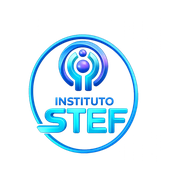
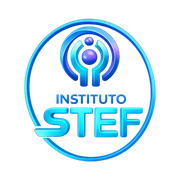
Fonte do topo, menu organizado, icone de instalacao corrigido

Changed region(s): [[0.1111, 0.0833, 0.8889, 0.9167]]

diff --git a/index.html b/index.html
@@ -11,10 +11,10 @@
 <link rel="apple-touch-icon" href="img/apple-touch-icon.png">
 <meta name="apple-mobile-web-app-capable" content="yes">
 <meta name="mobile-web-app-capable" content="yes">
-<meta name="apple-mobile-web-app-title" content="STEF">
+<meta name="apple-mobile-web-app-title" content="Instituto STEF">
 <link rel="preconnect" href="https://fonts.googleapis.com">
 <link rel="preconnect" href="https://fonts.gstatic.com" crossorigin>
-<link href="https://fonts.googleapis.com/css2?family=Inter:wght@400;500;600;700;800&family=Oswald:wght@500;600&display=swap" rel="stylesheet">
+<link href="https://fonts.googleapis.com/css2?family=Inter:wght@400;500;600;700;800&family=Exo+2:wght@600;700;800&display=swap" rel="stylesheet">
 <style>
 :root{--bg:#eef3fa;--card:#fff;--ink:#0b2a5b;--text:#27384f;--muted:#5d6f86;--blue:#1d5fc4;--blue2:#e3eeff;--line:#dbe5f1;--pill:#e4ebf5;--r:22px;--tabh:76px}
 *{box-sizing:border-box;-webkit-tap-highlight-color:transparent}
@@ -28,9 +28,10 @@ button{font:inherit;color:inherit;cursor:pointer}
 .top{position:sticky;top:0;z-index:30;display:flex;align-items:center;gap:10px;padding:calc(env(safe-area-inset-top) + 12px) 18px 10px;background:linear-gradient(var(--bg) 70%,transparent)}
 .brand{display:flex;align-items:center;gap:9px;margin-right:auto}
 .brand img{width:40px;height:40px}
-.brand b{font:600 19px Oswald,Inter,sans-serif;letter-spacing:.5px;color:var(--ink);text-transform:uppercase;line-height:1}
-.brand small{display:block;font:500 9.5px Inter;color:var(--blue);letter-spacing:1.2px;margin-top:3px}
-.pillbtn{display:flex;align-items:center;gap:8px;height:46px;padding:0 20px;border-radius:999px;background:#fff;border:1px solid var(--line);color:var(--blue);font-weight:700;font-size:17px;box-shadow:0 4px 14px rgba(11,42,91,.07)}
+.brand b{font:800 21px "Exo 2",Inter,sans-serif;letter-spacing:0;color:var(--blue);line-height:1}
+.brand b{white-space:nowrap}
+.brand small{display:none;font:600 10px Inter;color:var(--muted);letter-spacing:.2px;margin-top:4px}
+.pillbtn{display:flex;align-items:center;gap:6px;height:44px;padding:0 15px;border-radius:999px;background:#fff;border:1px solid var(--line);color:var(--blue);font-weight:700;font-size:16px;box-shadow:0 4px 14px rgba(11,42,91,.07)}
 .pillbtn svg{width:22px;height:22px}
 .round{width:46px;height:46px;border-radius:50%;display:grid;place-items:center;background:#fff;border:1px solid var(--line);box-shadow:0 4px 14px rgba(11,42,91,.07)}
 .round svg{width:22px;height:22px;color:var(--ink)}
@@ -41,11 +42,11 @@ button{font:inherit;color:inherit;cursor:pointer}
 @keyframes fade{from{opacity:0;transform:translateY(6px)}to{opacity:1;transform:none}}
 .pad{padding:0 18px}
 .row-h{display:flex;align-items:center;gap:12px;margin:30px 18px 14px}
-.row-h h2{margin:0;font-size:23px;font-weight:800;color:var(--ink);letter-spacing:-.3px}
-.chip{display:inline-flex;align-items:center;gap:4px;padding:7px 16px;border-radius:999px;background:var(--pill);font-weight:700;font-size:14px;letter-spacing:.4px;text-transform:uppercase;color:var(--muted)}
+.row-h h2{font-family:"Exo 2",Inter,sans-serif;margin:0;font-size:23px;font-weight:800;color:var(--ink);letter-spacing:-.3px}
+.chip{display:inline-flex;align-items:center;gap:4px;padding:7px 16px;border-radius:999px;background:var(--pill);font-weight:700;font-size:14px;letter-spacing:0;color:var(--muted)}
 .chip svg{width:14px;height:14px}
-.eyebrow{font:500 14px Oswald,Inter,sans-serif;letter-spacing:2px;text-transform:uppercase;color:var(--muted)}
-h1{font-size:30px;line-height:1.1;margin:6px 0 8px;color:var(--ink);letter-spacing:-.6px;font-weight:800}
+.eyebrow{font:700 14px "Exo 2",Inter,sans-serif;letter-spacing:.3px;color:var(--blue)}
+h1{font-family:"Exo 2",Inter,sans-serif;font-size:30px;line-height:1.1;margin:6px 0 8px;color:var(--ink);letter-spacing:-.6px;font-weight:800}
 h3{margin:0;font-size:18px;color:var(--ink);font-weight:700;line-height:1.25}
 p{margin:0 0 10px}
 .lead{color:var(--muted);font-size:15.5px}
@@ -71,19 +72,19 @@ p{margin:0 0 10px}
 .pcard img{position:absolute;inset:0;width:100%;height:100%;object-fit:cover}
 .pcard:after{content:"";position:absolute;inset:0;background:linear-gradient(transparent 30%,rgba(7,26,58,.92))}
 .pcard>*:not(img){position:relative;z-index:1}
-.pcard b{font:600 22px Oswald,Inter,sans-serif;letter-spacing:1px;text-transform:uppercase}
+.pcard b{font:800 22px "Exo 2",Inter,sans-serif}
 .pcard span{font-size:14px;color:#cfe0f7}
 .vcard{flex:0 0 78%;scroll-snap-align:start}
 .vcard .th{position:relative;border-radius:16px;overflow:hidden;aspect-ratio:16/10;background:var(--ink);border:1px solid var(--line)}
 .vcard .th img{width:100%;height:100%;object-fit:cover}
 .dur{position:absolute;right:10px;bottom:10px;background:rgba(7,26,58,.78);color:#fff;font-size:13px;padding:3px 10px;border-radius:8px}
-.tag{position:absolute;right:10px;top:10px;background:var(--blue);color:#fff;font:700 11.5px Inter;letter-spacing:.6px;padding:4px 10px;border-radius:8px;text-transform:uppercase}
-.vcard .k{font:500 14px Oswald,Inter,sans-serif;letter-spacing:2px;text-transform:uppercase;color:var(--muted);margin:12px 0 2px}
+.tag{position:absolute;right:10px;top:10px;background:var(--blue);color:#fff;font:700 11.5px Inter;padding:4px 10px;border-radius:8px}
+.vcard .k{font:700 14px "Exo 2",Inter,sans-serif;color:var(--blue);margin:12px 0 2px}
 .vcard h3{font-size:19px}
 
 /* cartão grande */
 .big{margin:28px 18px 0;border-radius:30px;background:#fff;border:1px solid var(--line);padding:28px 24px;box-shadow:0 14px 34px rgba(11,42,91,.08)}
-.big .eb{font:600 21px Oswald,Inter,sans-serif;letter-spacing:1.5px;text-transform:uppercase;color:var(--blue);margin-bottom:12px}
+.big .eb{font:800 20px "Exo 2",Inter,sans-serif;color:var(--blue);margin-bottom:10px}
 .big h2{margin:0 0 12px;font-size:27px;line-height:1.15;color:var(--ink);font-weight:800;letter-spacing:-.5px}
 .big h2 em{font-style:normal;color:var(--blue)}
 .big p{color:var(--muted);font-size:15.5px}
@@ -128,7 +129,7 @@ p{margin:0 0 10px}
 .btn{display:flex;align-items:center;justify-content:center;gap:8px;padding:15px 22px;border-radius:999px;background:var(--blue);color:#fff;font-weight:700;margin:0 18px 10px;text-align:center}
 .btn.ghost{background:#fff;color:var(--blue);border:1.5px solid var(--blue)}
 .kv{padding:12px 0;border-bottom:1px solid var(--line)}.kv:last-child{border:0}
-.kv .k{font-size:12px;font-weight:800;letter-spacing:1px;text-transform:uppercase;color:var(--blue)}
+.kv .k{font-size:13px;font-weight:800;color:var(--blue)}
 
 /* abas flutuantes */
 .tabs{position:fixed;left:0;right:0;bottom:calc(env(safe-area-inset-bottom) + 12px);z-index:40;display:flex;justify-content:center;padding:0 14px;pointer-events:none}
@@ -145,10 +146,10 @@ p{margin:0 0 10px}
 .mrow{display:flex;align-items:center;gap:14px;width:100%;padding:16px 18px;background:#fff;border:1px solid var(--line);border-radius:20px;font-weight:700;font-size:17px;color:var(--ink);margin-bottom:10px;text-align:left}
 .mrow svg{width:24px;height:24px;flex:none}
 .mrow .go{margin-left:auto;color:var(--muted)}
-.mbanner{position:relative;border-radius:22px;overflow:hidden;padding:24px 20px;color:#fff;background:var(--ink);margin-bottom:12px}
-.mbanner img{position:absolute;inset:0;width:100%;height:100%;object-fit:cover;opacity:.5}
-.mbanner>*{position:relative}
-.mbanner b{display:block;font-size:19px;margin-bottom:14px;line-height:1.25}
+.mbanner{display:block;border-radius:22px;overflow:hidden;background:#fff;border:1px solid var(--line);margin-bottom:12px}
+.mbanner img{width:100%;height:130px;object-fit:cover}
+.mbanner .mb{padding:18px 20px 20px}
+.mbanner b{display:block;font:800 20px/1.25 "Exo 2",Inter,sans-serif;color:var(--ink);margin-bottom:14px}
 .langs{display:flex;gap:8px;margin-bottom:10px}
 .langs button{flex:1;padding:14px;border-radius:16px;background:#fff;border:1.5px solid var(--line);font-weight:700;color:var(--ink)}
 .langs button.on{border-color:var(--blue);background:var(--blue2);color:var(--blue)}
@@ -335,7 +336,7 @@ p{margin:0 0 10px}
   <h4 style="margin-top:56px">Idioma</h4>
   <div class="langs"><button data-l="pt">Português</button><button data-l="en">English</button></div>
   <h4>Mais</h4>
-  <a class="mbanner" href="#contato" data-close><img src="img/svc-gestao.webp" alt=""><b>Fazendo mais com você e por você.</b><span class="play">Contato</span></a>
+  <a class="mbanner" href="#contato" data-close><img src="img/svc-gestao.webp" alt=""><div class="mb"><b>Fazendo mais com você e por você.</b><span class="play">Contato</span></div></a>
   <button class="mrow" id="share"><svg viewBox="0 0 24 24" fill="none" stroke="currentColor" stroke-width="2" stroke-linecap="round" stroke-linejoin="round"><path d="M12 16V3M7 8l5-5 5 5M5 13v6a2 2 0 0 0 2 2h10a2 2 0 0 0 2-2v-6"/></svg>Compartilhar o app<span class="go">›</span></button>
   <h4>Socorro</h4>
   <a class="mrow" href="#contato" data-close style="display:flex"><svg viewBox="0 0 24 24" fill="none" stroke="currentColor" stroke-width="2" stroke-linecap="round" stroke-linejoin="round"><circle cx="12" cy="12" r="9"/><path d="M9.5 9a2.5 2.5 0 1 1 3.5 2.3c-.7.4-1 .9-1 1.7M12 17h.01"/></svg>Ajuda e contato<span class="go">›</span></a>

diff --git a/sw.js b/sw.js
@@ -1,6 +1,6 @@
 // Guarda as páginas e imagens para o app abrir mesmo sem internet.
 // Os vídeos são grandes e vêm sempre da internet.
-const CACHE = 'stef-v8';
+const CACHE = 'stef-v9';
 const FILES = ['./', 'index.html', 'i18n-en.js', 'manifest.json',
   ...['logo.png','icon-192.png','icon-512.png','apple-touch-icon.png','entrevista-capa.jpg','saude-comunitaria-capa.jpg'].map(f => 'img/' + f)];
 
